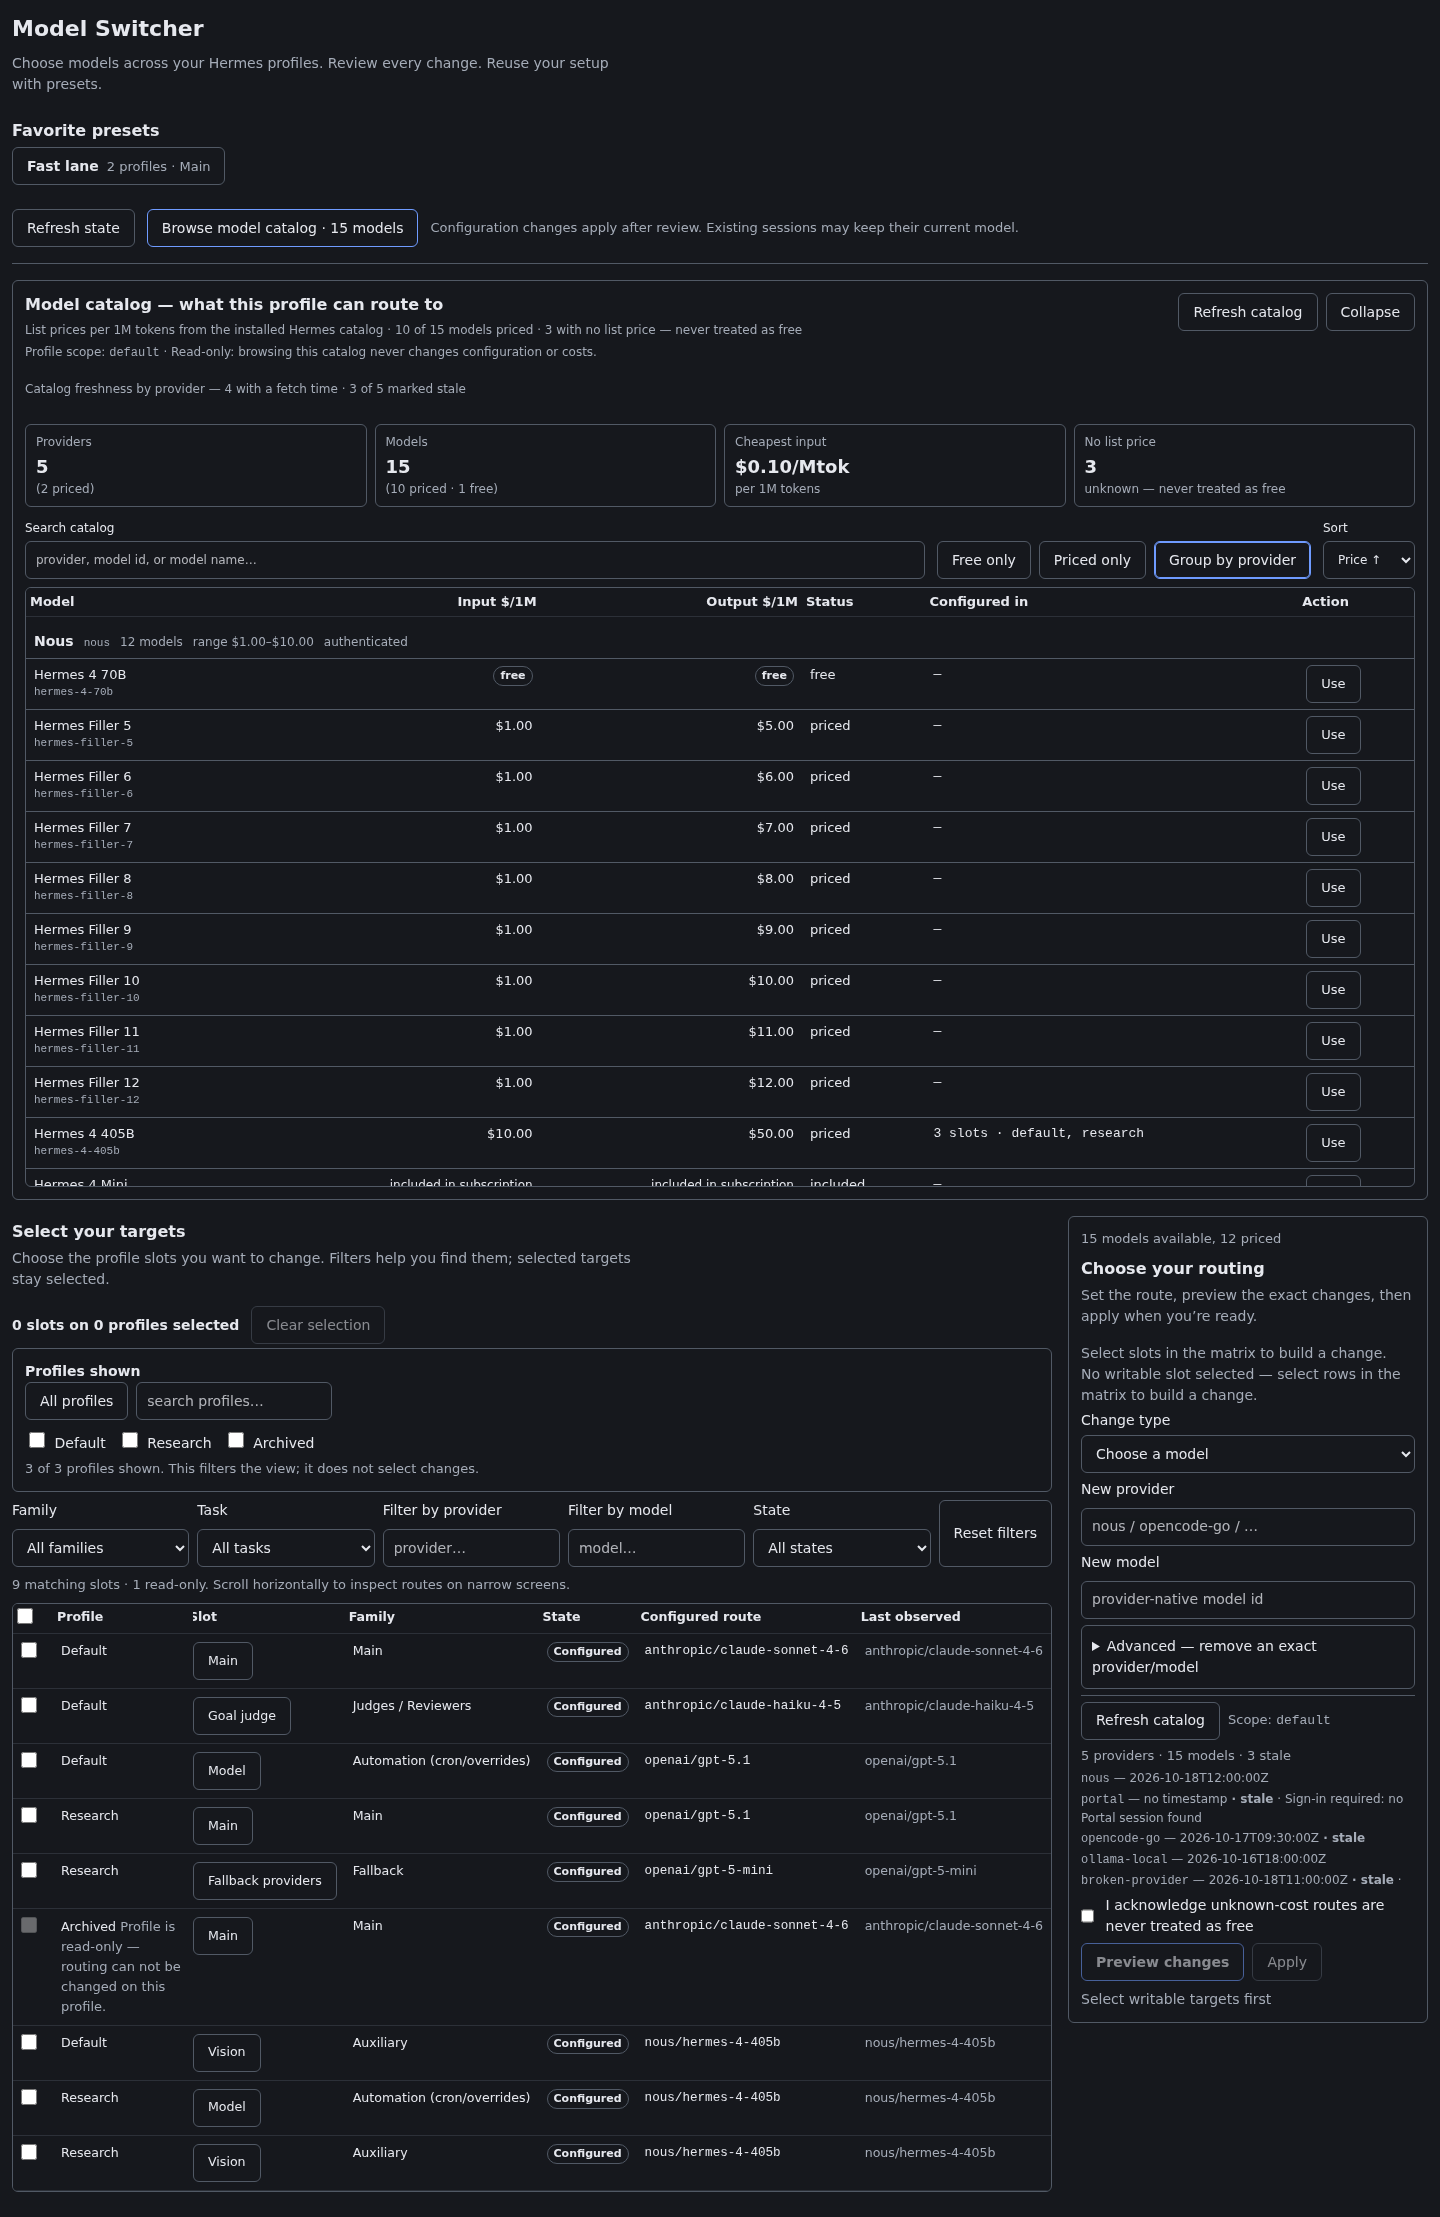
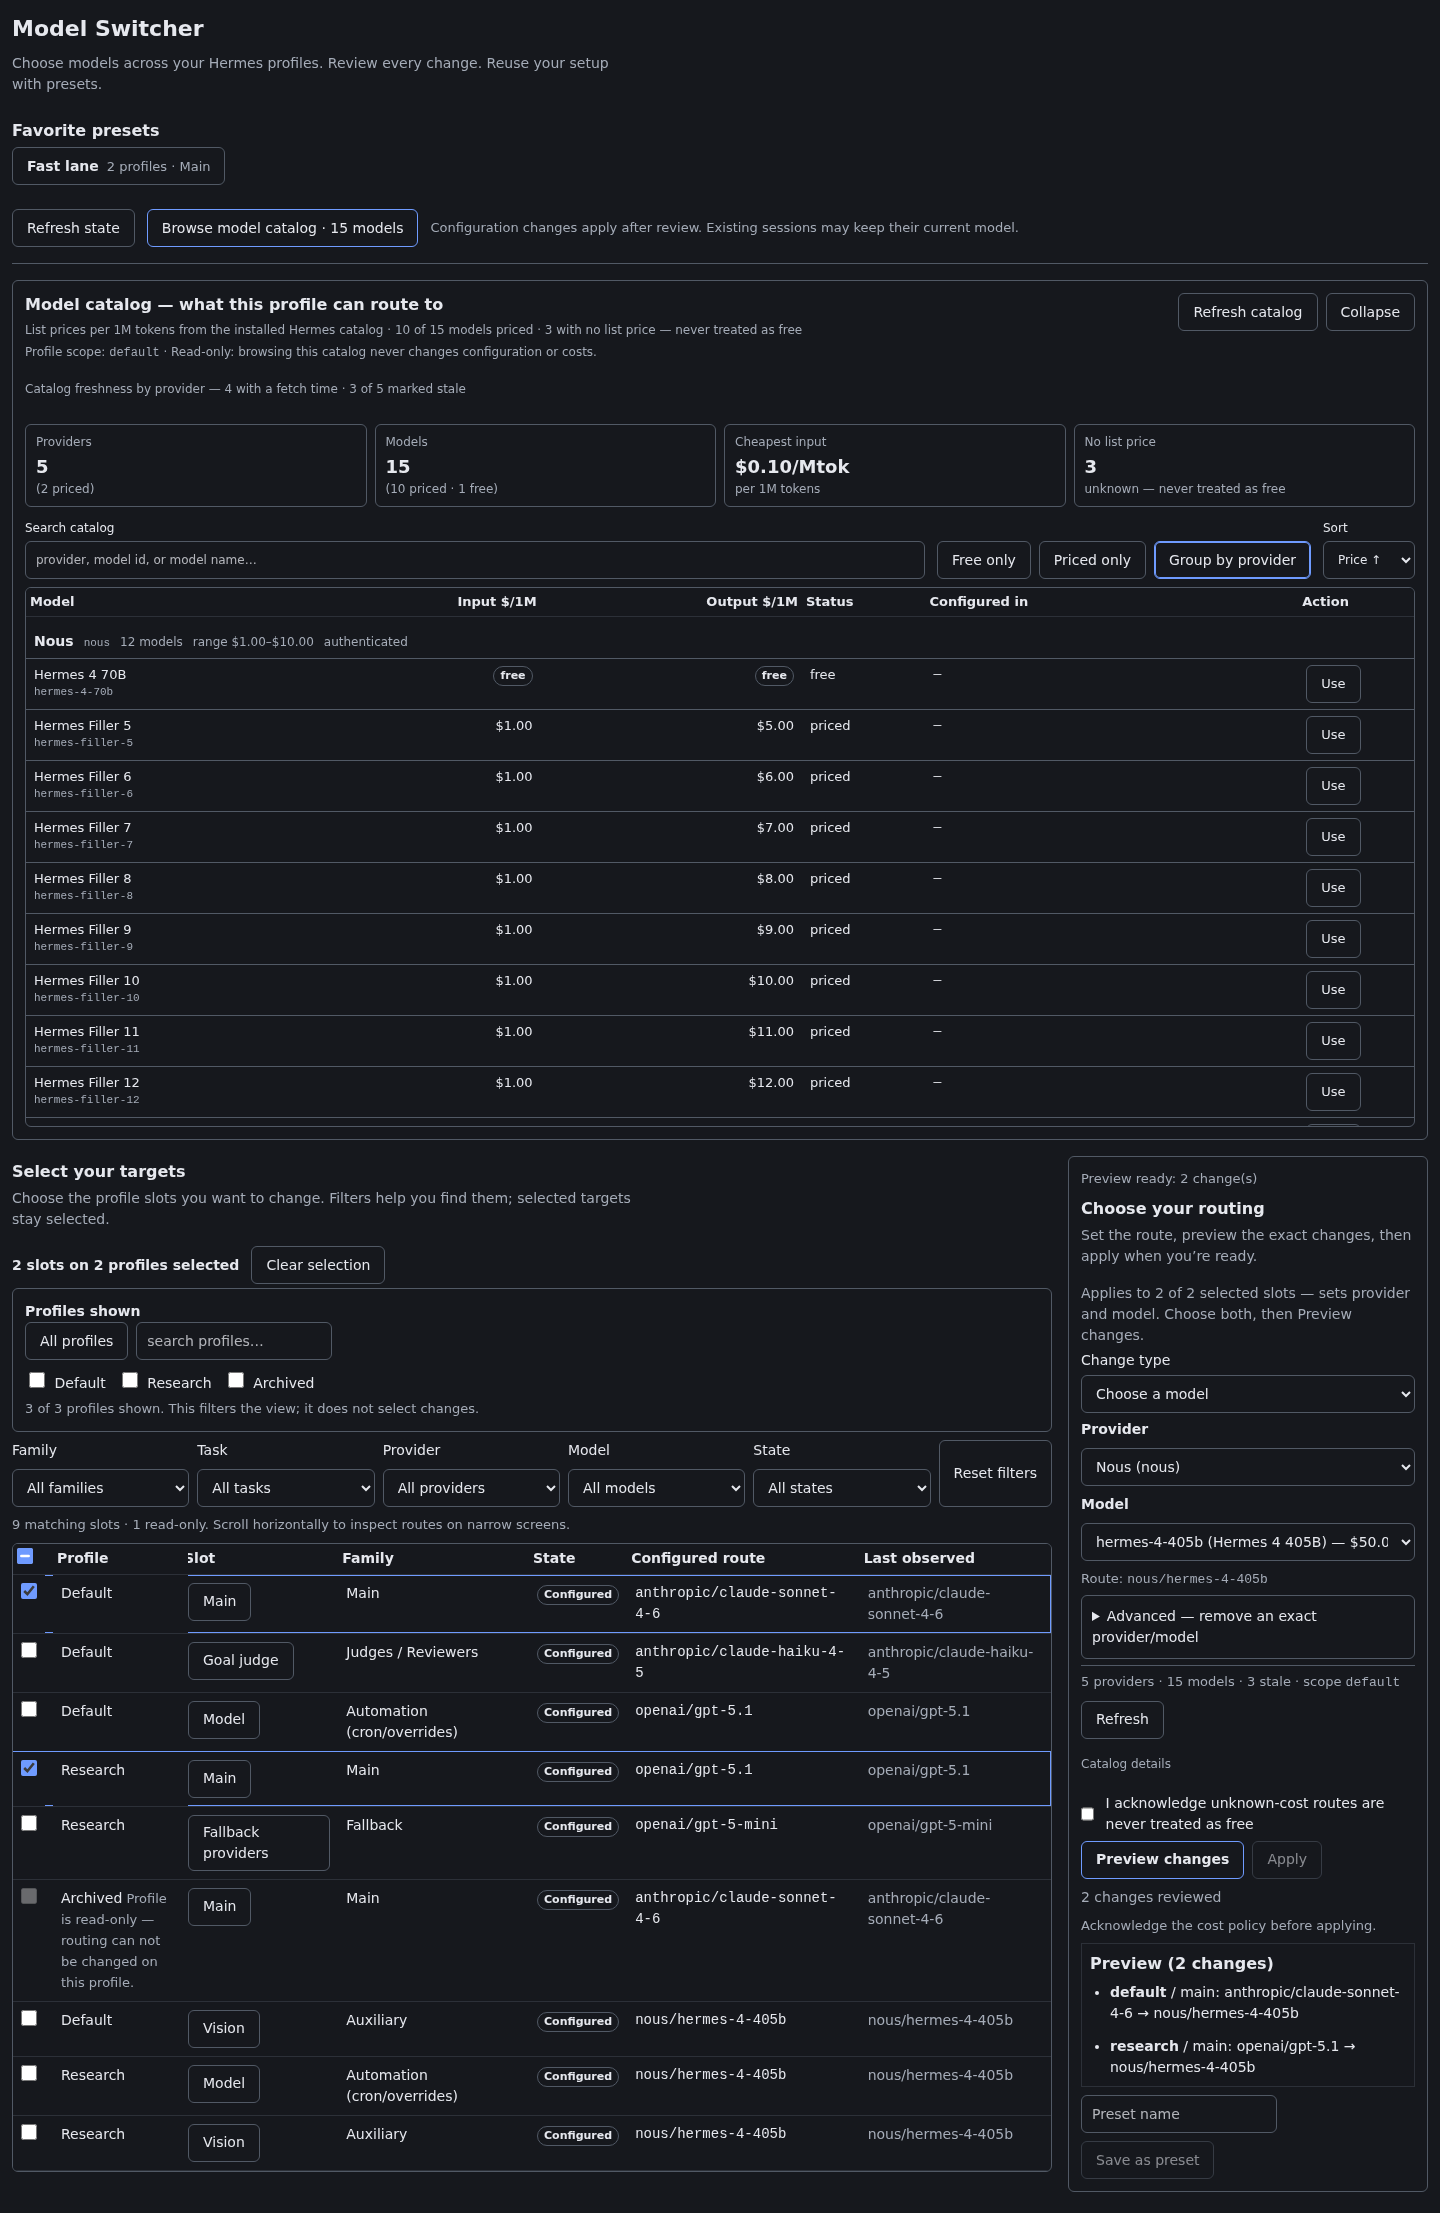
Promotion pass: listing-ready screenshots and docs aligned with the shipped UI (#14)
* docs(promotion): regenerate screenshots and align docs with the shipped UI

- Regenerate the 5 fixture screenshots from the current native-dropdown
  editor (dark/light 1440, dark 375, catalog 1440/375); the previous
  captures showed the superseded combobox controls and contradicted the
  README's own instructions.
- Recapture the 3 real-dashboard lab captures from an isolated synthetic
  lab (throwaway HERMES_HOME, never the live dashboard) with verified
  readback: Preview left config bytes unchanged, Apply changed them, Undo
  restored them exactly (real operation id op-cba21275e3d7).
  real-preview is now 2880x1956 (was an unreadable 335x177).
- README: filter terms and step headings now byte-match ui/src/main.jsx;
  all 8 images referenced.
- CHANGELOG: explicit 0.2.0 section dated 2026-10-14 (the 15434cc release).
- package.json: add description field matching plugin.yaml.
- docs/images/README.md: document all 8 PNGs with truthful provenance.

Verification: pytest 538 passed, 1 skipped; npm test 128 passed;
npm run build in sync with the committed dashboard/dist;
hermes plugins validate + doctor --ci green (expected catalog rule 9 note);
privacy guard clean (134 files scanned).

* docs: address promotion review captions and changelog chronology

* docs: correct real dashboard lab profile provenance

diff --git a/docs/images/README.md b/docs/images/README.md
@@ -1,32 +1,40 @@
 # Product screenshots
 
-The three theme/viewport PNGs show the compiled plugin in the repository's Dashboard SDK fixture,
-with synthetic Default, Research and Archived profiles. They are authentic
-renders of the plugin UI, not a live Dashboard deployment or provider execution.
-Recorded usage is deliberately absent. The preview selects two main-model slots;
-Apply remains disabled until the cost acknowledgment is checked.
+All eight PNGs in this directory were regenerated on **2026-10-19** from the current
+routing editor (merged as PR #13). They document the Model Switcher interface, not
+provider execution.
+
+## Fixture renders — the compiled plugin
+
+The five theme, catalog and viewport PNGs are authentic renders of the compiled
+plugin in this repository's Dashboard SDK fixture, driven with synthetic Default,
+Research and Archived profiles. They are real captures of the plugin UI — not a
+live Dashboard deployment and not provider execution. Recorded usage is
+deliberately absent.
 
 - `model-switcher-dark-1440.png`: desktop, dark host theme.
 - `model-switcher-light-1440.png`: desktop, light host theme.
 - `model-switcher-dark-375.png`: narrow screen, dark host theme; the matrix scrolls
   horizontally inside its own region.
+- `model-switcher-catalog-1440.png`: the bird's-eye model catalog, desktop.
+- `model-switcher-catalog-375.png`: the model catalog on a narrow screen.
 
-Captured during the 2026-10-14 release-preparation pass after building the current
-candidate. No private profile data, credentials, host addresses, file paths,
-or real operation results are displayed.
+No private profile data, credentials, host addresses, file paths, or real
+operation results are displayed in these fixture shots.
 
 ## Actual Hermes Dashboard lab captures
 
-Captured from candidate `188add0` in the real Hermes Dashboard, using an isolated
-synthetic default profile:
+The three `real-*` PNGs are captures from an isolated lab Hermes Dashboard running
+two synthetic profiles, default and research. The browser drove Preview, Apply and
+guarded Undo through the real host UI: the configuration bytes were unchanged by
+Preview, changed by Apply, and restored exactly by Undo, and separate HTTP checks
+confirmed authenticated API responses and served-asset hashes. No provider inference
+was performed.
 
 - `model-switcher-real-dashboard.png`: the loaded routing matrix and editor.
 - `model-switcher-real-preview.png`: a real preview of the synthetic main-model change.
 - `model-switcher-real-operation.png`: a committed operation with verified readback.
 
-The browser drove Preview, Apply and guarded Undo through the real host UI; the
-configuration bytes were unchanged by Preview, changed by Apply, and restored
-exactly by Undo. Separate HTTP checks confirmed authenticated API responses and
-served-asset hashes. No provider inference was performed. Operation/revision IDs
-are real lab-generated identifiers, not fabricated success data. The lab, server
-and listening port were checked clean after teardown.
+Operation and revision IDs shown are real lab-generated identifiers, not
+fabricated success data. No private data is displayed, and the lab, server and
+listening port were checked clean after teardown.

diff --git a/README.md b/README.md
@@ -35,13 +35,28 @@ Built for the Hermes Dashboard, using its themes and authenticated transport. MI
 screenshot demonstrates the interface; it is not evidence of live Dashboard
 deployment or provider inference.*
 
+![The same interface following the host's light theme](docs/images/model-switcher-light-1440.png)
+
+*The plugin follows the host Dashboard's theme; the light theme is shown here.*
+
 ![Model catalog with list prices per 1M tokens](docs/images/model-switcher-catalog-1440.png)
+
+*The provider-grouped catalog in the Dashboard SDK fixture with synthetic lab profiles.
+List prices come from Hermes' pricing caches, not from provider probes or recorded spend.*
 
 ![Model catalog on a narrow screen](docs/images/model-switcher-catalog-375.png)
 
+*The same catalog on a narrow screen; a fixture render of the compiled plugin, not a
+live Dashboard deployment or provider execution.*
+
+![The routing matrix on a narrow screen](docs/images/model-switcher-dark-375.png)
+
+*On a narrow screen the matrix scrolls horizontally inside its own region.*
+
 ### In the real Hermes Dashboard
 
-The same plugin, running in an isolated one-profile lab with synthetic routes:
+The same plugin, running in an isolated lab with two synthetic profiles (default
+and research) and synthetic routes:
 
 ![Routing matrix in the real Hermes Dashboard](docs/images/model-switcher-real-dashboard.png)
 
@@ -118,10 +133,11 @@ when you rebuild the UI yourself.
 
 ## Make your first switch
 
-1. **Select targets.** Filter by profile, family, slot, or state, then select the
-   slots you want to change. Filtering changes the view only; checkboxes choose edit
-   targets. The selection summary includes selected slots hidden by filters.
-2. **Choose routing.** Pick a provider, then a model from its dropdown (each
+1. **Select your targets.** Narrow the matrix with the **Profiles shown** selector
+   and the **Family**, **Task**, **Provider**, **Model**, and **State** filters, then
+   select the slots you want to change. Filtering changes the view only; checkboxes
+   choose edit targets. The selection summary includes selected slots hidden by filters.
+2. **Choose your routing.** Pick a provider, then a model from its dropdown (each
    entry shows its list price), open **Browse model catalog** to compare options, or
    choose **Other** to enter an exact provider/model pair for custom routes. Model IDs belong to their provider,
    so keep the pair together.

diff --git a/CHANGELOG.md b/CHANGELOG.md
@@ -39,6 +39,8 @@
 - New backend tests (catalog pricing and catalog API) and browser specs
   (`dropdowns.spec.mjs`, `models-catalog.spec.mjs`, `real-catalog.spec.mjs`).
 
+## 0.2.0 — 2026-10-14
+
 ### Removed
 
 - The `/probe` HTTP route is gone. It previously always refused and never performed an inference probe, so removing it loses no supported inference capability.
@@ -53,7 +55,7 @@
 - Add `docs/backlog.md`; scope the privacy audit's history statement around the remote-identity cleanup (no full-erasure claim).
 - Reflect the backend review changes in the docs: no fleet-wide transaction or always-undo promise; compensated/partial/recovery_required results report `ok=false`; preset corruption quarantines the original and salvages valid entries with a `presetsCorrupt` warning.
 
-## Earlier unreleased notes
+## Pre-0.2.0 notes
 
 - Rewrite the README around profile selection, reviewed model changes, and reusable presets.
 - Separate advanced routing and Dashboard integration details into a technical reference.
